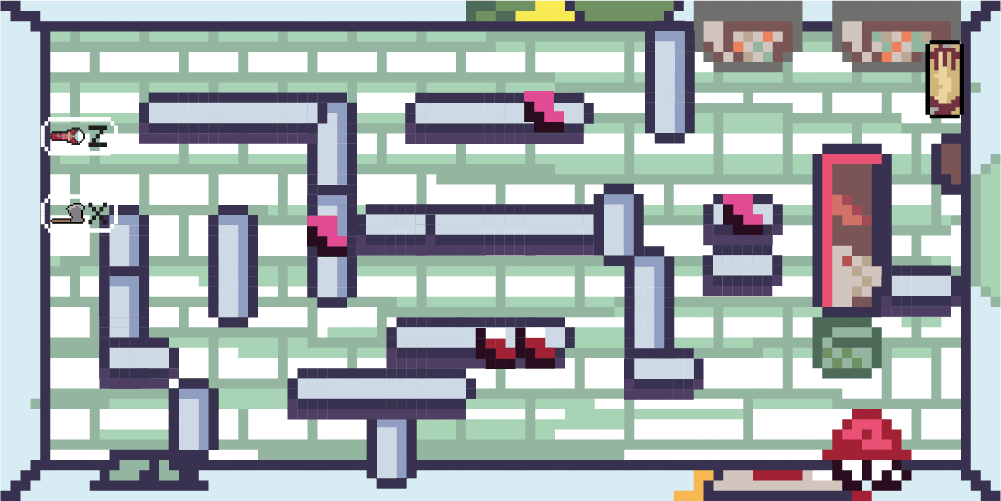
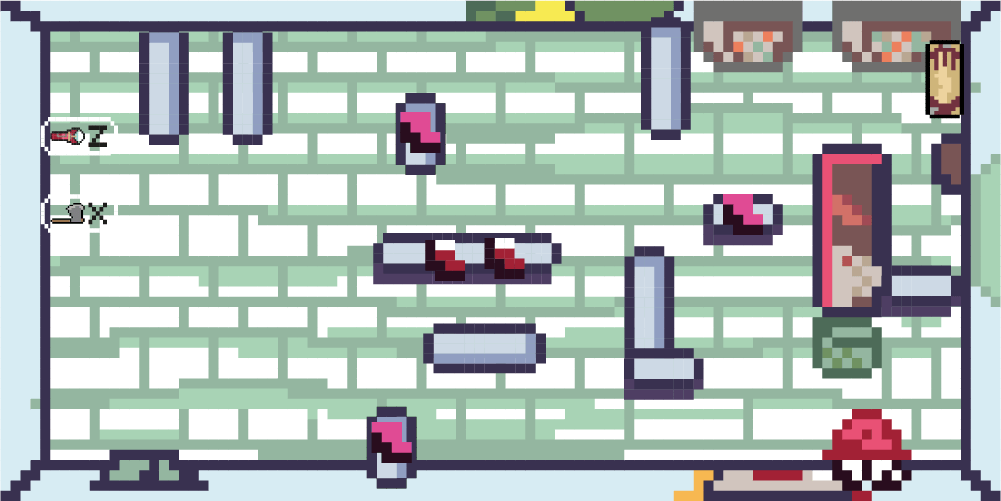
subir muro

diff --git a/sketch.js b/sketch.js
@@ -11,6 +11,7 @@ let inicial,
   dipper,
   mabel,
   tiostan,
+  muro,
   raton,
   muercie,
   abuela,
@@ -106,6 +107,7 @@ function preload() {
   corazon = loadImage("/assets/CorazónVida.png");
   linterna = loadImage("/assets/0linterna0.png");
   caja = loadImage("/assets/Cajita-8.png");
+  muro = loadImage("/assets/0muro0.png");
 }
 
 function setup() {
@@ -141,19 +143,15 @@ function draw() {
     pantalla = 8;
   }
 
- if (presionado === true){
-   location.reload();
- }
-  
+  if (presionado === true) {
+    location.reload();
+  }
 
-  
-  
   //pantallas con sus elementos
   switch (pantalla) {
     case 0:
       image(inicial, 0, 0); //pantalla inicio
-      
-    
+
       break;
 
     case 1:
@@ -621,21 +619,15 @@ function draw() {
 
       break;
     case 8:
-
-     image(gameO, 0, 0); //Pantalla Game Over
-     
+      image(gameO, 0, 0); //Pantalla Game Over
 
       break;
 
     case 9:
       image(winner, 0, 0); //Pantalla ganador
       break;
-
-}
-
-
   }
-
+}
 
 function mousePressed() {
   //cambio de pantalla
@@ -708,7 +700,6 @@ function mousePressed() {
         dx = 790;
       }
       break;
-        
   }
   //recoleccion de paginas
   if (mouseX > 367 && mouseX < 390 && mouseY > 210 && mouseY < 240) {
@@ -724,21 +715,18 @@ function mousePressed() {
     libro = !libro;
   }
 
-
-if (pantalla === 8){
-  if (mouseX > 0 && mouseX < 1000 && mouseY > 0 && mouseY < 500) {
-    console.log("melo");
-    presionado = true;
+  if (pantalla === 8) {
+    if (mouseX > 0 && mouseX < 1000 && mouseY > 0 && mouseY < 500) {
+      console.log("melo");
+      presionado = true;
+    }
   }
-}
 
   console.log(mouseX, mouseY);
 }
 //cambio de gamme over a pantalla inicial
 
-function mouseClicked(){
-  
- }
+function mouseClicked() {}
 
 function mouseClicked() {
   if (pantalla === 8) {
@@ -747,7 +735,6 @@ function mouseClicked() {
     pantalla = 2;
   }
 }
-
 
 function keyPressed() {
   personaje.mover(); //movimiento personaje
